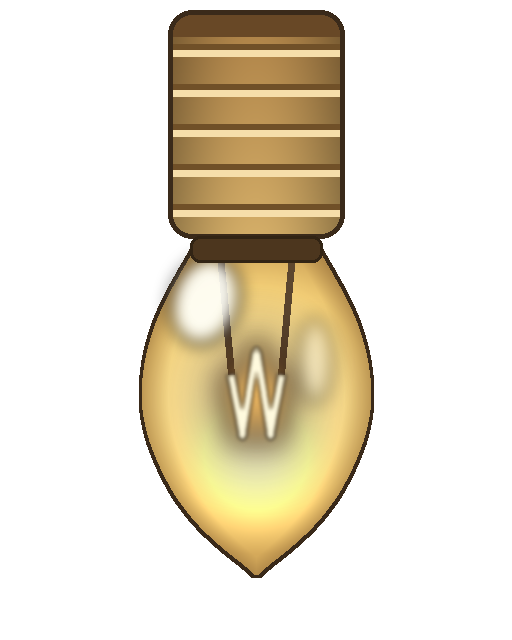
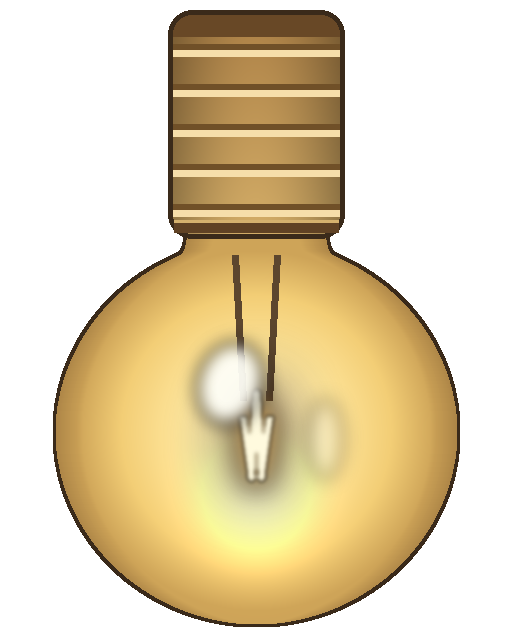
灯泡形状重画：水滴形改真实白炽泡（A19）
用户反馈玻璃泡"跟现实不像"——原来是底部收成尖点的梨形/水滴形。
tools/gen_bulb.py 的玻璃形状重写：
- 改成几何合成：球部椭圆（球心 432, rx 205, ry 196）∪ 颈部圆柱（半宽 74，
  略小于灯座半宽 88，玻璃是插进座里的），重叠后模糊取阈
- 肩部因此自然形成 S 形过渡，底部圆弧收拢，无尖点
- 灯丝支撑线从颈内垂到球心，W 形卷移到球心（415 附近）
- 主高光缩小收紧（198,342-262,424），次高光压淡到 105
- 座底那块悬空的"接触帽"删掉（真实灯泡没有），改为座底一道金属底盖暗条
- bulb_lit.png 重生成，smoke 311 全绿，吊灯场景截图确认

diff --git a/tools/gen_bulb.py b/tools/gen_bulb.py
@@ -18,37 +18,29 @@ OUT = os.path.join(BASE, 'assets', 'art', 'bulb_lit.png')
 W, H = 512, 640
 CX = 256.0
 
+# 玻璃形状按真实白炽灯泡（A19）量：圆球 + 短颈插进灯座，肩部是球和圆柱
+# 相交出来的 S 过渡，底部是圆弧收拢 —— 绝不是收成尖点的水滴形。
+BULB_CY, RX, RY = 432.0, 205.0, 196.0   # 球部椭圆（球心/半径）
+NECK_HW, NECK_BOT = 74.0, 345.0          # 颈部半宽 / 颈长（半宽略小于灯座，玻璃是插进座里的）
+GLASS_TOP = 230.0
+
 
 def smoothstep(t):
     t = np.clip(t, 0.0, 1.0)
     return t * t * (3.0 - 2.0 * t)
 
 
-def width_profile():
-    """梨形宽度剖面：密集控制点线性插值后高斯平滑，避免凹凸波浪。"""
-    pts = [(216, 48), (240, 62), (268, 78), (296, 94), (324, 106),
-           (352, 114), (380, 118), (410, 118), (440, 112), (470, 100),
-           (500, 84), (528, 62), (552, 36), (572, 10), (577, 0)]
-    ys = np.arange(216, 578, dtype=np.float32)
-    w = np.interp(ys, np.array([p[0] for p in pts], np.float32),
-                  np.array([p[1] for p in pts], np.float32)).astype(np.float32)
-    # 高斯平滑消波浪（sigma 9 行 ≈ 1.2 屏幕像素，不至于改变大形）
-    kernel = np.exp(-0.5 * (np.arange(-24, 25) / 9.0) ** 2)
-    kernel /= kernel.sum()
-    w_smooth = np.convolve(np.pad(w, 24, mode='edge'), kernel, mode='valid')
-    return ys, w_smooth
-
-
 def build_glass():
-    """玻璃：返回 RGBA 图。"""
+    """玻璃：球部椭圆 + 颈部圆柱重叠后模糊取阈 —— 肩部自然 S 形，圆底无尖点。"""
     yy, xx = np.mgrid[0:H, 0:W].astype(np.float32)
-    ys, wp = width_profile()
-    half = np.interp(yy[:, 0], ys, wp)  # 每行的半宽
-    in_y = (yy >= 216) & (yy <= 577)
-    mask = (np.abs(xx - CX) <= half[:, None]) & in_y
+    ball = (((xx - CX) / RX) ** 2 + ((yy - BULB_CY) / RY) ** 2) <= 1.0
+    neck = (np.abs(xx - CX) <= NECK_HW) & (yy >= GLASS_TOP) & (yy <= NECK_BOT)
+    m = Image.fromarray(((ball | neck) * 255).astype(np.uint8)).filter(ImageFilter.GaussianBlur(5))
+    mask = np.asarray(m, np.float32) > 140
+    half = mask.sum(axis=1).astype(np.float32) * 0.5  # 每行半宽
 
-    # 径向暖光渐变（光心略偏下：灯丝位置）
-    d = np.sqrt((xx - CX) ** 2 + (yy - 400.0) ** 2) / 128.0
+    # 径向暖光渐变（光心 = 灯丝位置，球心略偏下）
+    d = np.sqrt((xx - CX) ** 2 + (yy - 430.0) ** 2) / 150.0
     stops = [(0.0, (255, 246, 208)), (0.5, (255, 230, 156)),
              (0.9, (243, 206, 118)), (1.2, (206, 164, 88))]
     r = np.zeros_like(d)
@@ -75,7 +67,7 @@ def build_glass():
     rgb = np.stack([r, g, b], axis=-1) * (1 - mix) + dark * mix
 
     # 底部内透光：光从灯丝往玻璃底聚
-    dg = np.sqrt((xx - CX) ** 2 + (yy - 468.0) ** 2)
+    dg = np.sqrt((xx - CX) ** 2 + (yy - 505.0) ** 2)
     add = (110.0 * np.exp(-(dg / 52.0) ** 2))[..., None]
     rgb = np.clip(rgb + add * np.array([1.0, 0.82, 0.42]), 0, 255)
 
@@ -113,14 +105,14 @@ def add_filament(img, glass_alpha):
             layer.putalpha(a)
         return Image.composite(layer, Image.new('RGBA', (W, H), (0, 0, 0, 0)), clip)
 
-    # 支撑线（不裁剪也行，但裁了更干净）
+    # 支撑线（从颈内垂下来，末端挂在球心附近）
     sup = Image.new('RGBA', (W, H), (0, 0, 0, 0))
     sd = ImageDraw.Draw(sup)
-    sd.line([(219, 244), (231, 374)], fill=(92, 70, 46, 255), width=7, joint='curve')
-    sd.line([(293, 244), (281, 374)], fill=(92, 70, 46, 255), width=7, joint='curve')
+    sd.line([(235, 255), (243, 400)], fill=(92, 70, 46, 255), width=7, joint='curve')
+    sd.line([(277, 255), (269, 400)], fill=(92, 70, 46, 255), width=7, joint='curve')
     img.alpha_composite(Image.composite(sup, Image.new('RGBA', (W, H), (0, 0, 0, 0)), clip))
 
-    coil = [(230, 374), (242, 436), (256, 350), (270, 436), (282, 374)]
+    coil = [(242, 415), (251, 478), (256, 392), (261, 478), (270, 415)]
     img.alpha_composite(line_layer(coil, (255, 138, 48), 30, 30, 0.9))
     img.alpha_composite(line_layer(coil, (255, 196, 100), 16, 12, 0.95))
     img.alpha_composite(line_layer(coil, (255, 250, 222), 8, 2))
@@ -130,14 +122,14 @@ def add_specular(img):
     """左上柔和高光 + 右下微弱次高光，玻璃质感的关键。"""
     lay = Image.new('RGBA', (W, H), (0, 0, 0, 0))
     dr = ImageDraw.Draw(lay)
-    dr.ellipse([(172, 256), (238, 344)], fill=(255, 255, 248, 240))
-    lay = lay.rotate(-18, center=(205, 300), resample=Image.BICUBIC)
+    dr.ellipse([(198, 342), (262, 424)], fill=(255, 255, 248, 240))
+    lay = lay.rotate(-18, center=(230, 383), resample=Image.BICUBIC)
     lay = lay.filter(ImageFilter.GaussianBlur(8))
     img.alpha_composite(lay)
 
     lay2 = Image.new('RGBA', (W, H), (0, 0, 0, 0))
     dr2 = ImageDraw.Draw(lay2)
-    dr2.ellipse([(298, 318), (332, 402)], fill=(255, 250, 230, 130))
+    dr2.ellipse([(308, 400), (342, 478)], fill=(255, 250, 230, 105))
     lay2 = lay2.filter(ImageFilter.GaussianBlur(9))
     img.alpha_composite(lay2)
 
@@ -174,9 +166,9 @@ def build_socket():
     socket.paste(body, (x0, y0), mask)
     od = ImageDraw.Draw(socket)
     od.rounded_rectangle([x0, y0, x1, y1], radius=24, outline=(58, 42, 26, 255), width=5)
-    # 底部接触帽
-    od.rounded_rectangle([190, y1 - 2, 322, y1 + 24], radius=10,
-                         fill=(76, 54, 30, 255), outline=(50, 36, 20, 255), width=3)
+    # 底部封口：座底本身就是金属底盖，压一道暗条即可，不再突出一块
+    od.rectangle([x0 + 6, y1 - 18, x1 - 6, y1 - 6], fill=(96, 66, 36, 255))
+    od.rectangle([x0 + 6, y1 - 18, x1 - 6, y1 - 16], fill=(214, 178, 110, 255))
     return socket
 
 
